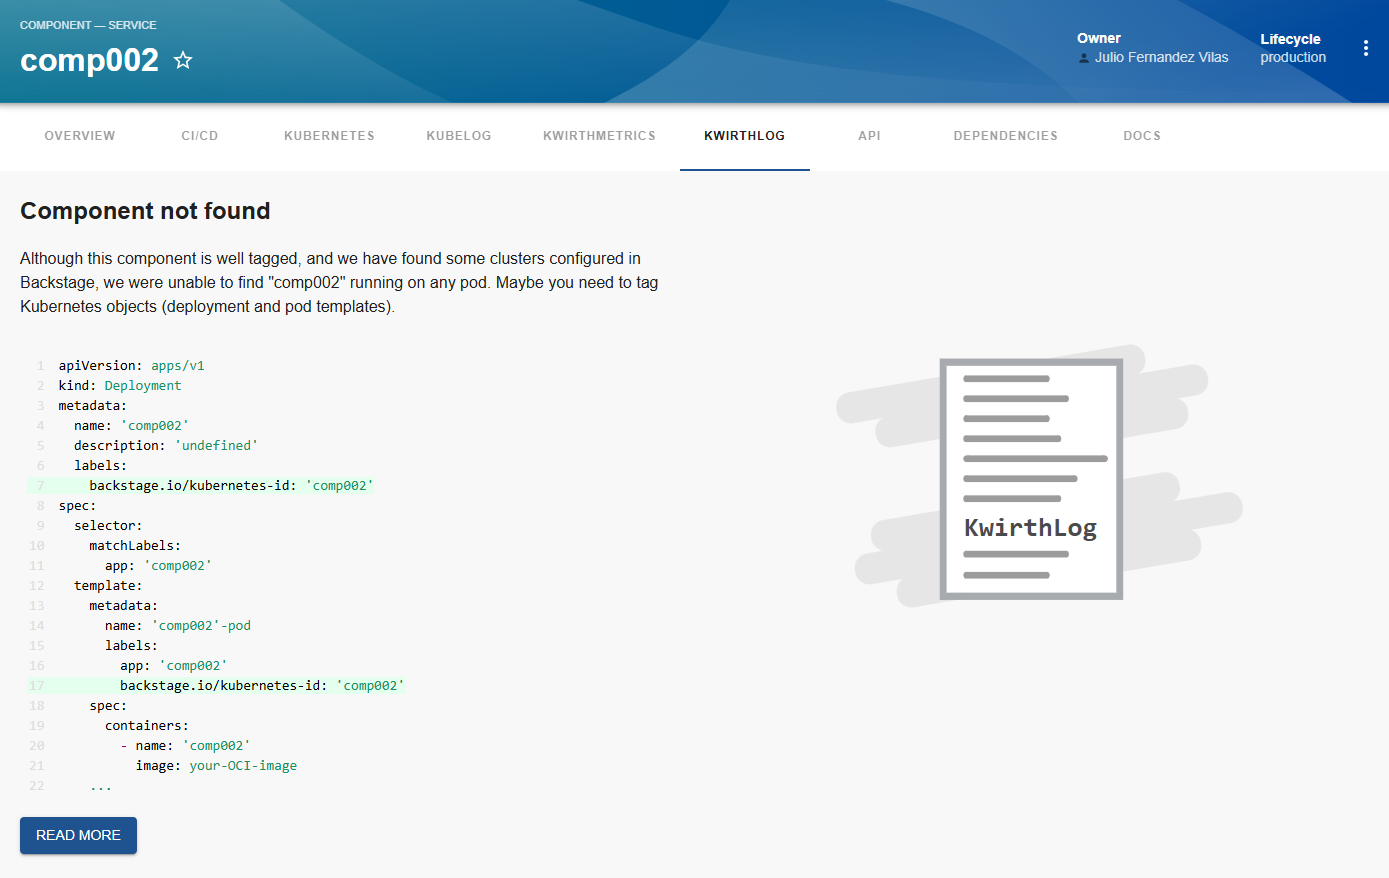
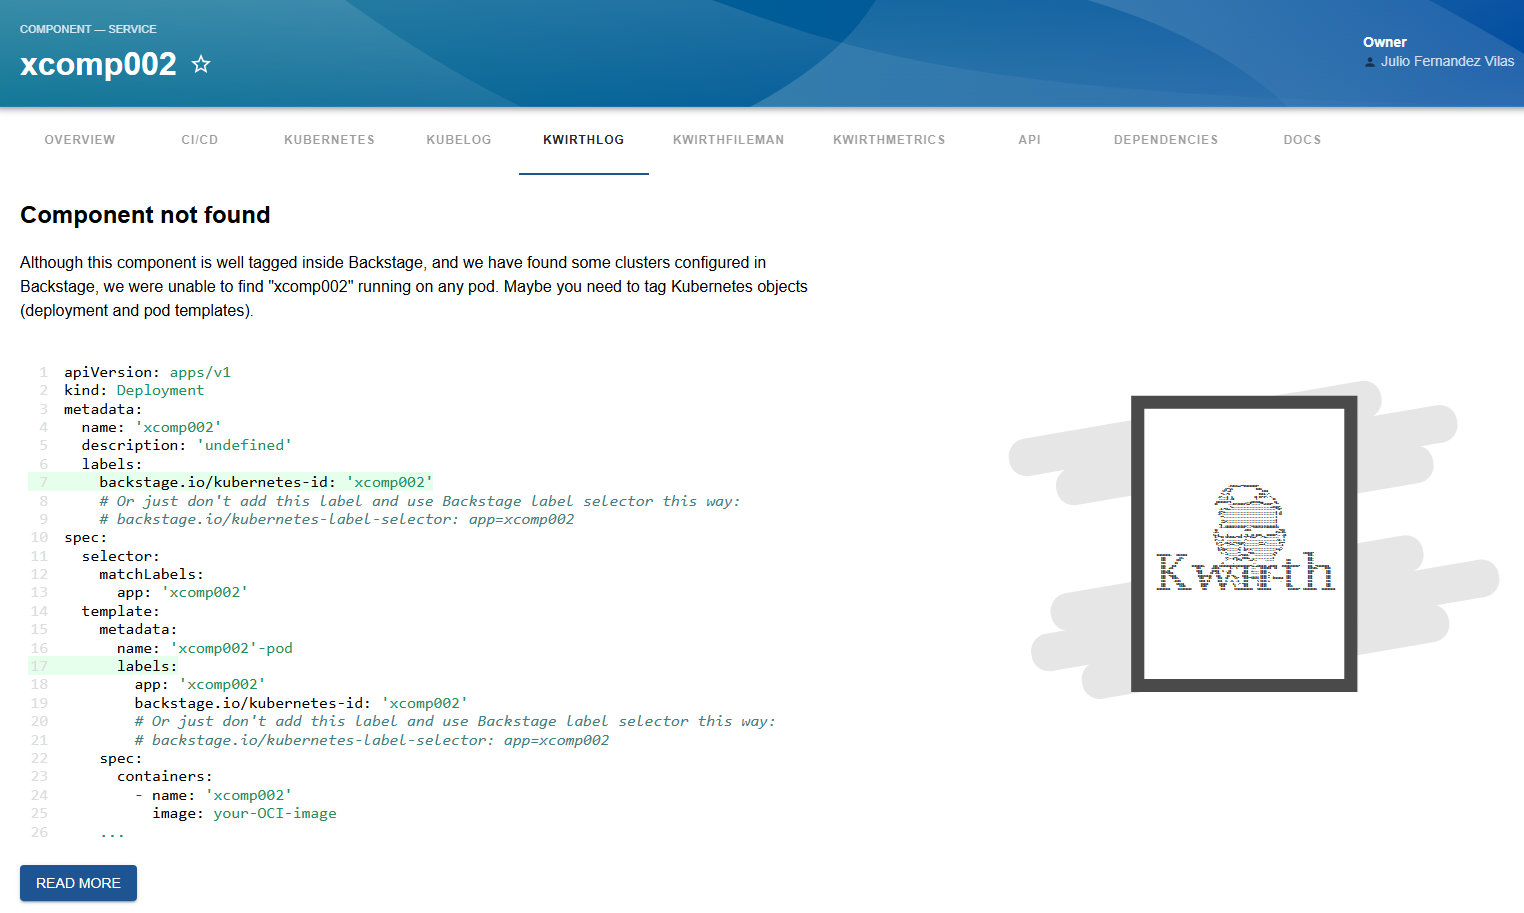
add auto-versioning

diff --git a/src/components/EntityKwirthLogContent.tsx b/src/components/EntityKwirthLogContent.tsx
@@ -13,7 +13,7 @@ WITHOUT WARRANTIES OR CONDITIONS OF ANY KIND, either express or implied.
 See the License for the specific language governing permissions and
 limitations under the License.
 */
-import React, { useRef, useState } from 'react'
+import React, { useEffect, useRef, useState } from 'react'
 import useAsync from 'react-use/esm/useAsync'
 
 import { Progress, WarningPanel } from '@backstage/core-components'
@@ -29,10 +29,9 @@ import { accessKeySerialize, ILogMessage, InstanceMessageActionEnum, InstanceCon
 import { IOptions } from './IOptions'
 import { Options } from './Options'
 import { KwirthNews, ComponentNotFound, ObjectSelector, StatusLog, ClusterList, ErrorType } from '@jfvilas/plugin-kwirth-frontend'
-import { VERSION } from '../index'
 
 // Material-UI
-import { Grid, Card, CardHeader, CardContent, Box, TextField, InputAdornment } from '@material-ui/core'
+import { Grid, Card, CardHeader, CardContent, Box, TextField, InputAdornment, BoxProps } from '@material-ui/core'
 import Divider from '@material-ui/core/Divider'
 import IconButton from '@material-ui/core/IconButton'
 import Typography from '@material-ui/core/Typography'
@@ -47,6 +46,10 @@ import ErrorIcon from '@material-ui/icons/Error'
 import DownloadIcon from '@material-ui/icons/CloudDownload'
 import KwirthLogLogo from '../assets/kwirthlog-logo.svg'
 import RefreshIcon from '@material-ui/icons/Refresh'
+import { VERSION } from '../version'
+
+type BoxWithRefProps = BoxProps & { ref?: React.Ref<HTMLDivElement> }
+const RefBox = Box as React.FC<BoxWithRefProps>
 
 const LOG_MAX_MESSAGES=1000
 
@@ -57,6 +60,8 @@ export interface IEntityKwirthLogProps {
     showNames?: boolean
     followLog?: boolean
     wrapLines?: boolean
+    hideVersion?: boolean
+    excludeContainers?: string[]
 }
 
 export const EntityKwirthLogContent: React.FC<IEntityKwirthLogProps> = (props:IEntityKwirthLogProps) => { 
@@ -101,9 +106,16 @@ export const EntityKwirthLogContent: React.FC<IEntityKwirthLogProps> = (props:IE
     const [filter, setFilter] = useState<string>('')
     const [filterCasing, setFilterCasing] = useState(false)
     const [filterRegex, setFilterRegex] = useState(false)
+    const logBoxRef = useRef<HTMLDivElement | null>(null)
+    const [logBoxTop, setLogBoxTop] = useState(0)
 
     const adornmentSelected= { margin: 0, borderWidth:1, borderStyle:'solid', borderColor:'gray', paddingLeft:3, paddingRight:3, backgroundColor:'gray', cursor: 'pointer', color:'white'}
     const adornmentNotSelected = { margin: 0, borderWidth:1, borderStyle: 'solid', borderColor:'#f0f0f0', backgroundColor:'#f0f0f0', paddingLeft:3, paddingRight:3, cursor:'pointer'}
+
+    useEffect(() => {
+        if (logBoxRef.current) setLogBoxTop(logBoxRef.current.getBoundingClientRect().top)
+    })
+
     const clickStart = (options:IOptions) => {
         if (!paused.current) {
             setStarted(true)
@@ -146,7 +158,7 @@ export const EntityKwirthLogContent: React.FC<IEntityKwirthLogProps> = (props:IE
                     setSelectedNamespaces(validNamespaces)
                     let podList = getPodList (cluster.pods, validNamespaces)
                     setSelectedPodNames(podList.map(pod => pod.name))
-                    setSelectedContainerNames(getContainerList(cluster.pods, validNamespaces, podList.map(pod => pod.name)))
+                    setSelectedContainerNames(getContainerList(cluster.pods, validNamespaces, podList.map(pod => pod.name), props.excludeContainers || []))
                 }
                 else {
                     setMessages([{
@@ -531,6 +543,10 @@ export const EntityKwirthLogContent: React.FC<IEntityKwirthLogProps> = (props:IE
             return <>{logLine.text+'\n'}</>
         }
 
+        if (props.excludeContainers && props.excludeContainers.length>0) {
+            if (props.excludeContainers.includes(logLine.container)) return <></>
+        }
+
         if (filter!=='') {
             if (filterCasing) {
                 if (filterRegex) {
@@ -557,6 +573,7 @@ export const EntityKwirthLogContent: React.FC<IEntityKwirthLogProps> = (props:IE
                 }
             }
         }
+
         let podPrefix = <></>
         if (selectedPodNames.length !== 1 || kwirthLogOptionsRef.current.showNames) {  // +++test
             podPrefix  = <span style={{color:"green"}}>{logLine.pod+' '}</span>
@@ -590,7 +607,7 @@ export const EntityKwirthLogContent: React.FC<IEntityKwirthLogProps> = (props:IE
         }
 
         { isKwirthAvailable(entity) && !loading && validClusters && validClusters.length>0 && validClusters.reduce((sum,cluster) => sum+cluster.pods.length, 0)>0 &&
-            <Box sx={{ display: 'flex', height:'70vh'}}>
+            <RefBox ref={logBoxRef as any} sx={{ display: 'flex', height: `calc(100vh - ${logBoxTop}px - 25px)`}}>
                 <Box sx={{ width: '200px', maxWidth:'200px'}}>
                     <Grid container direction='column'>
                         <Grid item>        
@@ -603,11 +620,13 @@ export const EntityKwirthLogContent: React.FC<IEntityKwirthLogProps> = (props:IE
                                 <Options options={kwirthLogOptionsRef.current} onChange={onChangeLogConfig} disabled={selectedContainerNames.length === 0 || started || paused.current}/>
                             </Card>
                         </Grid>
-                        <Grid item>
-                            <Card>
-                                <KwirthNews latestVersions={backendInfo} backendVersion={backendVersion} ownVersion={VERSION}/>
-                            </Card>
-                        </Grid>
+                        {!props.hideVersion &&
+                            <Grid item>
+                                <Card>
+                                    <KwirthNews latestVersions={backendInfo} backendVersion={backendVersion} ownVersion={VERSION}/>
+                                </Card>
+                            </Grid>
+                        }
                     </Grid>
                 </Box>
 
@@ -628,7 +647,7 @@ export const EntityKwirthLogContent: React.FC<IEntityKwirthLogProps> = (props:IE
                             <Grid container style={{alignItems:'end'}}>
                                 <Grid item style={{width:'66%'}}>
                                     <Typography style={{marginLeft:14}}>
-                                        <ObjectSelector cluster={validClusters.find(cluster => cluster.name === selectedClusterName)!} onSelect={onSelectObject} disabled={selectedClusterName === '' || started || paused.current} selectedNamespaces={selectedNamespaces} selectedPodNames={selectedPodNames} selectedContainerNames={selectedContainerNames} scope={InstanceConfigScopeEnum.VIEW}/>
+                                        <ObjectSelector cluster={validClusters.find(cluster => cluster.name === selectedClusterName)!} onSelect={onSelectObject} disabled={selectedClusterName === '' || started || paused.current} selectedNamespaces={selectedNamespaces} selectedPodNames={selectedPodNames} selectedContainerNames={selectedContainerNames} scope={InstanceConfigScopeEnum.VIEW} excludeCotainers={props.excludeContainers}/>
                                     </Typography>
                                 </Grid>
                                 <Grid item style={{width:'33%', marginLeft:0}} >
@@ -648,8 +667,8 @@ export const EntityKwirthLogContent: React.FC<IEntityKwirthLogProps> = (props:IE
                             </Grid>
                             <Divider/>
                             <CardContent style={{ flexGrow: 1, overflow: 'hidden', display: 'flex', flexDirection: 'column' }}>
-                                <Box style={{ overflowY: 'auto', width: '100%', flexGrow: 1 }}>
-                                    <pre ref={preRef} style={{overflowX: (kwirthLogOptionsRef.current.wrapLines?'hidden':'auto'),  whiteSpace: (kwirthLogOptionsRef.current.wrapLines ? 'pre-wrap' : 'pre'), wordBreak: kwirthLogOptionsRef.current.wrapLines ? 'break-word' : 'normal'}} >
+                                <Box style={{ overflowY: 'auto', width: '100%', flexGrow: 1, height: `calc(100vh - ${logBoxTop}px - 25px)`, overflowX: (kwirthLogOptionsRef.current.wrapLines?'hidden':'auto')}}>
+                                    <pre ref={preRef} style={{whiteSpace: (kwirthLogOptionsRef.current.wrapLines ? 'pre-wrap' : 'pre'), wordBreak: kwirthLogOptionsRef.current.wrapLines ? 'break-word' : 'normal'}} >
                                         { messages.map (m => formatMessage(m)) }
                                     </pre>
                                     <span ref={lastRef}/>
@@ -658,7 +677,7 @@ export const EntityKwirthLogContent: React.FC<IEntityKwirthLogProps> = (props:IE
                         </Card>
                     </>}
                 </Box>
-            </Box>
+            </RefBox>
         }
         { showStatusDialog && <StatusLog level={statusLevel} onClose={() => setShowStatusDialog(false)} statusMessages={statusMessages} onClear={statusClear}/>}
     </>)

diff --git a/src/index.ts b/src/index.ts
@@ -13,8 +13,6 @@ WITHOUT WARRANTIES OR CONDITIONS OF ANY KIND, either express or implied.
 See the License for the specific language governing permissions and
 limitations under the License.
 */
-export const VERSION='0.13.2'
-
 export { EntityKwirthLogContent, kwirthLogPlugin } from './plugin'
 export { KwirthLogClient, kwirthLogApiRef  } from './api'
 

diff --git a/src/version.ts b/src/version.ts
@@ -1,0 +1,1 @@
+export const VERSION:string="0.13.5"; 

diff --git a/README.md b/README.md
@@ -67,46 +67,61 @@ It's very simple and straightforward, it is in fact very similar to any other fo
 ## Configuration: Entity Pages
 For Kwirth plugin to be usable on the frontend, you must tailor your Entity Page to include the Kwirth components.
 
-1. Add the plugin as a tab in your Entity pages:
+#### 1. Add the plugin as a tab in your Entity pages:
 
-    Firstly, import the plugin module.
-    ```typescript
-    // In packages/app/src/components/catalog/EntityPage.tsx
-    import { EntityKwirthLogContent } from '@jfvilas/plugin-kwirth-log';
-    import { isKwirthAvailable } from '@jfvilas/plugin-kwirth-common';
-    ```
+Firstly, import the plugin module.
 
-    Then, add a tab to your EntityPage (the 'if' is optional, you can keep the 'KwirthLog' tab always visible if you prefer to do it that way).
-    ```jsx
-    // Note: Add to any other Pages as well (e.g. defaultEntityPage or webSiteEntityPage, for example)
-    const serviceEntityPage = (
-      <EntityLayout>
-        {/* other tabs... */}
-        <EntityLayout.Route if={isKwirthAvailable} path="/kwirthlog" title="KwirthLog">
-          <EntityKwirthLogContent enableRestart={false} />
-        </EntityLayout.Route>
-      </EntityLayout>
-    )
-    ```
+```typescript
+// In packages/app/src/components/catalog/EntityPage.tsx
+import { EntityKwirthLogContent } from '@jfvilas/plugin-kwirth-log';
+import { isKwirthAvailable } from '@jfvilas/plugin-kwirth-common';
+```
 
-    You can setup some default *viewing* options on the `EntityKwirthLogContent` component, so, when the entity loads the default options will be set. These options are:
-    - `formStart`
-    - `showNames`
-    - `showTimestamp`
-    - `followLog`
-    - `wrapLines`
-    (The meaning of these properties are explained at the end of this document)
+Then, add a tab to your EntityPage (the 'if' is optional, you can keep the 'KwirthLog' tab always visible if you prefer to do it that way).
 
-    For example, you could setup your default log stream like this:
-    ```jsx
-      ...
-      <EntityLayout.Route if={isKwirthAvailable} path="/kwirthlog" title="KwirthLog">
-        <EntityKwirthLogContent enableRestart={false} fromStrat={true} showTimestamp={true} wrapLines={true} />
-      </EntityLayout.Route>
-      ...
-    ```
+```jsx
+// Note: Add to any other Pages as well (e.g. defaultEntityPage or webSiteEntityPage, for example)
+const serviceEntityPage = (
+  <EntityLayout>
+    {/* other tabs... */}
+    <EntityLayout.Route if={isKwirthAvailable} path="/kwirthlog" title="KwirthLog">
+      <EntityKwirthLogContent enableRestart={false} />
+    </EntityLayout.Route>
+  </EntityLayout>
+)
+```
 
-2. Label your catalog-info according to one of these two startegies:
+You can setup some default *viewing* options on the `EntityKwirthLogContent` component, so, when the entity loads the default options will be set. These options are:
+- `fromStart`
+- `showNames`
+- `showTimestamp`
+- `followLog`
+- `wrapLines`
+
+For example, you could setup your default log stream like this (The meaning of these properties are explained at the end of this document):
+
+```jsx
+  ...
+  <EntityLayout.Route if={isKwirthAvailable} path="/kwirthlog" title="KwirthLog">
+    <EntityKwirthLogContent enableRestart={false} fromStrat={true} showTimestamp={true} wrapLines={true} />
+  </EntityLayout.Route>
+  ...
+```
+
+You can also set some behaviour options for the plugin:
+  - `hideVersion` (optional `boolean`) if set to `true`, version information updates will not be shown.
+  - `excludeContainers` (optional `string[]`), an array of container names that will be excluded from visualization. For example, if you have pods that include sidecars, you can exclude sidecard log messages using this property. What follows is an example on how to use these properties:
+
+  ```jsx
+    ...
+    <EntityLayout.Route if={isKwirthAvailable} path="/kwirthlog" title="KwirthLog">
+      <EntityKwirthLogContent hideVersion excludeContainers={['istio-proxy', 'nginx']} />
+    </EntityLayout.Route>
+    ...
+  ```
+  
+#### 2. Label your catalog-info
+Use one of these two startegies:
 
 - **Strategy 1: one-to-one**. Add `backstage.io/kubernetes-id` annotation to your `catalog-info.yaml` for the entities deployed to Kubernetes you want to work with on Backstage. This is the same annotation that the Kubernetes core plugin uses, so, maybe you already have added it to your components. Exmaple:
 
@@ -120,7 +135,7 @@ For Kwirth plugin to be usable on the frontend, you must tailor your Entity Page
 
     ```yaml
     metadata:
-      annotaations:
+      annotations:
         backstage.io/kubernetes-id: 'app=core,artifact=backend'
     ```
 
